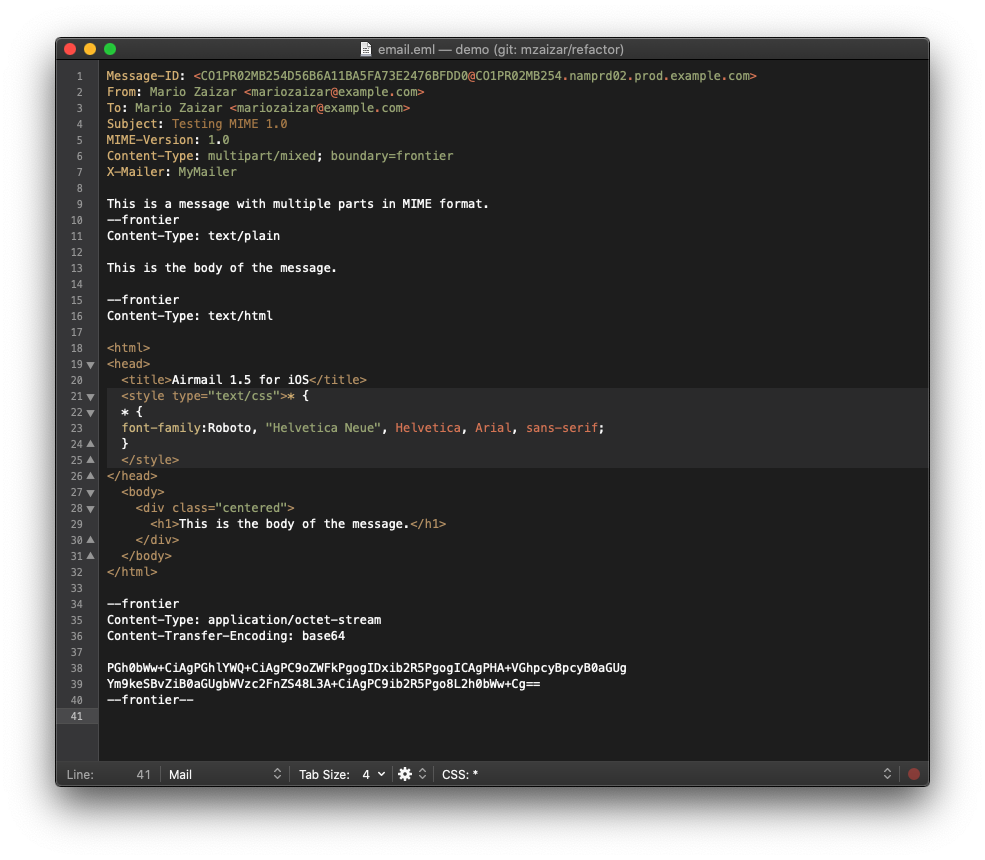
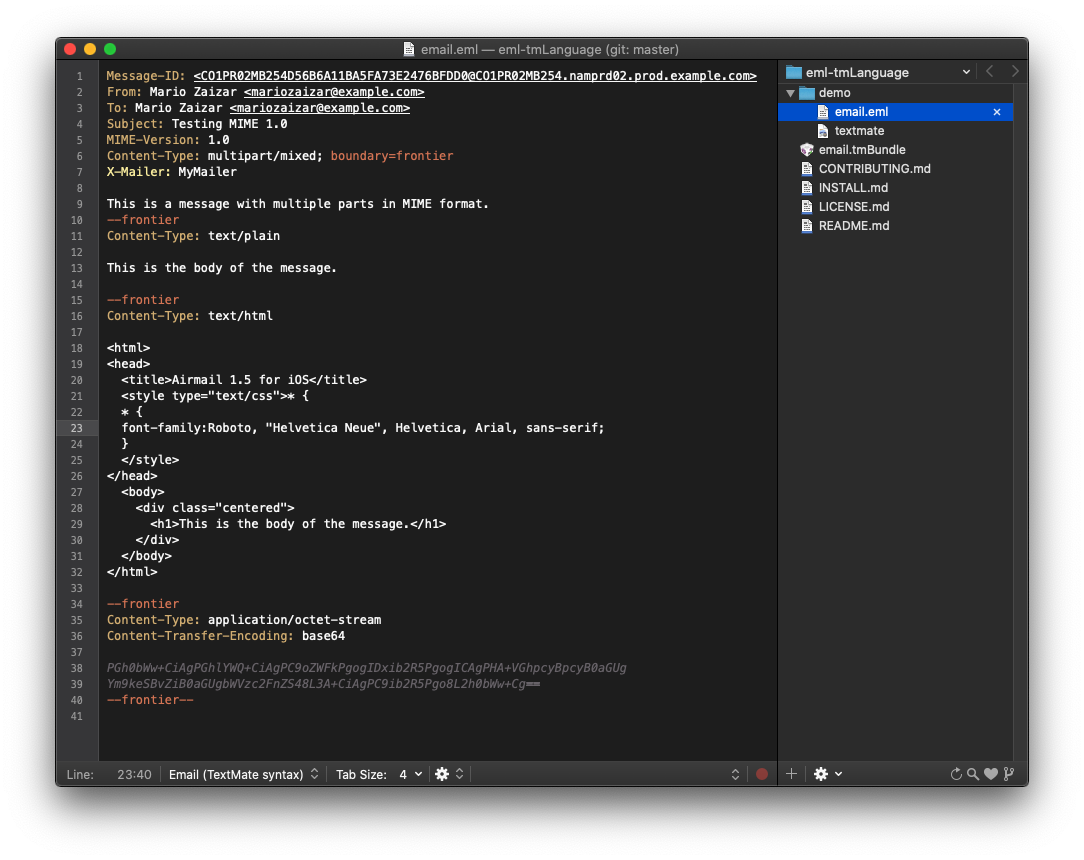
Finishing the transition to Text Mate support only

Changed region(s): [[0.0305, 0.0302, 0.9746, 0.907], [0.3959, 0.8767, 0.4873, 0.907], [0.7005, 0.8767, 0.7614, 0.907]]

diff --git a/README.md b/README.md
@@ -3,19 +3,18 @@
 
 # EML.tmLanguage
 
-Email syntax highlighting for [~*Sublime Text*~](https://github.com/mariozaizar/eml-tmLanguage#sublime-text-users) **Text Mate** editor made by [@mariozaizar](https://about.me/mariozaizar). 
+Email syntax highlighting for [~*Sublime Text*~](https://github.com/mariozaizar/eml-tmLanguage#sublime-text-users) **Text Mate** editor made by [@mariozaizar](https://about.me/mariozaizar).
 
 ## Demos
 
-:mouse: Using [Sublime Text](https://www.sublimetext.com/) *(Build 3211)*
-![sublime](https://raw.githubusercontent.com/mariozaizar/eml-tmLanguage/master/demo/sublime.png)
+:mouse: Using [Text Mate](https://macromates.com/) *(mate 2.13.1 (Dec 28 2019))*
+![textmate](https://raw.githubusercontent.com/mariozaizar/eml-tmLanguage/master/demo/textmate.png)
 
 ## Links
 
 * Email on Sublime Text: [email.sublime-syntax](https://github.com/mariozaizar/email.sublime-syntax)
 * Email on Atom: [language-eml](https://github.com/mariozaizar/language-eml)
 * Email on Text Mate: [eml-tmLanguage](https://github.com/mariozaizar/eml-tmLanguage)
-* Text Mate's official Mail bundle: [mail.tmbundle](https://github.com/textmate/mail.tmbundle)
 
 ## Sublime Text users
 
@@ -25,6 +24,6 @@ For a while, this email grammar was available for Sublime Text users under [EML 
 * [email.sublime-syntax](https://github.com/mariozaizar/email.sublime-syntax) (new repository) uses the new **Sublime Text** syntax.
 
 :warning:  While this code still works on **Sublime Text**, the support of it from this repository is no longer maintained.
-I strongly recommend switching to the new repository (or package) to get the latest updates. 
+I strongly recommend switching to the new repository (or package) to get the latest updates.
 
 I'm trying my best to keep (and probably rename) the [EML (E-Mail)](https://packagecontrol.io/packages/EML%20(E-Mail)) package so everyone can keep getting updates from the new repository. Thanks again for your downloads and support!

diff --git a/CONTRIBUTING.md b/CONTRIBUTING.md
@@ -1,14 +1,12 @@
-## Contributing
+# Contributing
 
-Textmate’s Syntax definitions use `.tmLanguage` files.
+* Text Mate's syntax definitions use `email.tmBundle/Syntaxes/email.tmLanguage` file (PLIST).
+* This repo provides a `email.tmBundle/Syntaxes/email.YAML-tmLanguage` file (YAML)
+* You need to convert from YAML to XML; You can use Sublime Text's `PackageDev` package to convert them.
+* Open the `YAML` file with Sublime and then select `Convert to Property List` command.
+* The `PLIST` file will be generated in the same folder.
+* Follow the `INSTALL.md` instructions to install the new `email.tmBundle`.
 
-1. Run `./link_sublime.sh` to link this folder to your Sublime's packages folder.
-2. Edit the `email.YAML-tmLanguage` file.
-3. Convert to `email.tmLanguage` file by selecting "Convert to Property List" command.
-4. The `email.tmLanguage` file will be generated in the same folder.
-5. Sublime Text will reload the changes to the syntax definition.
+## Links
 
-## PackageControl references
-
-* https://packagecontrol.io/docs/submitting_a_package
-* https://packagecontrol.io/docs/renaming_a_package
+* https://macromates.com/manual/en/language_grammars#naming_conventions

diff --git a/INSTALL.md b/INSTALL.md
@@ -1,0 +1,6 @@
+# Installation
+
+1. Double click the `email.tmBundle` file or right-click and select `Open with Text Mate`.
+2. Select `Yes` on `Would you like to install the “Email (TextMate)” bundle?` window.
+3. Verify in `Preferences`, then `Bundles`, and search for `Email`.
+4. You can now open any `*.eml` file and select `Email (TextMate)` syntax.
